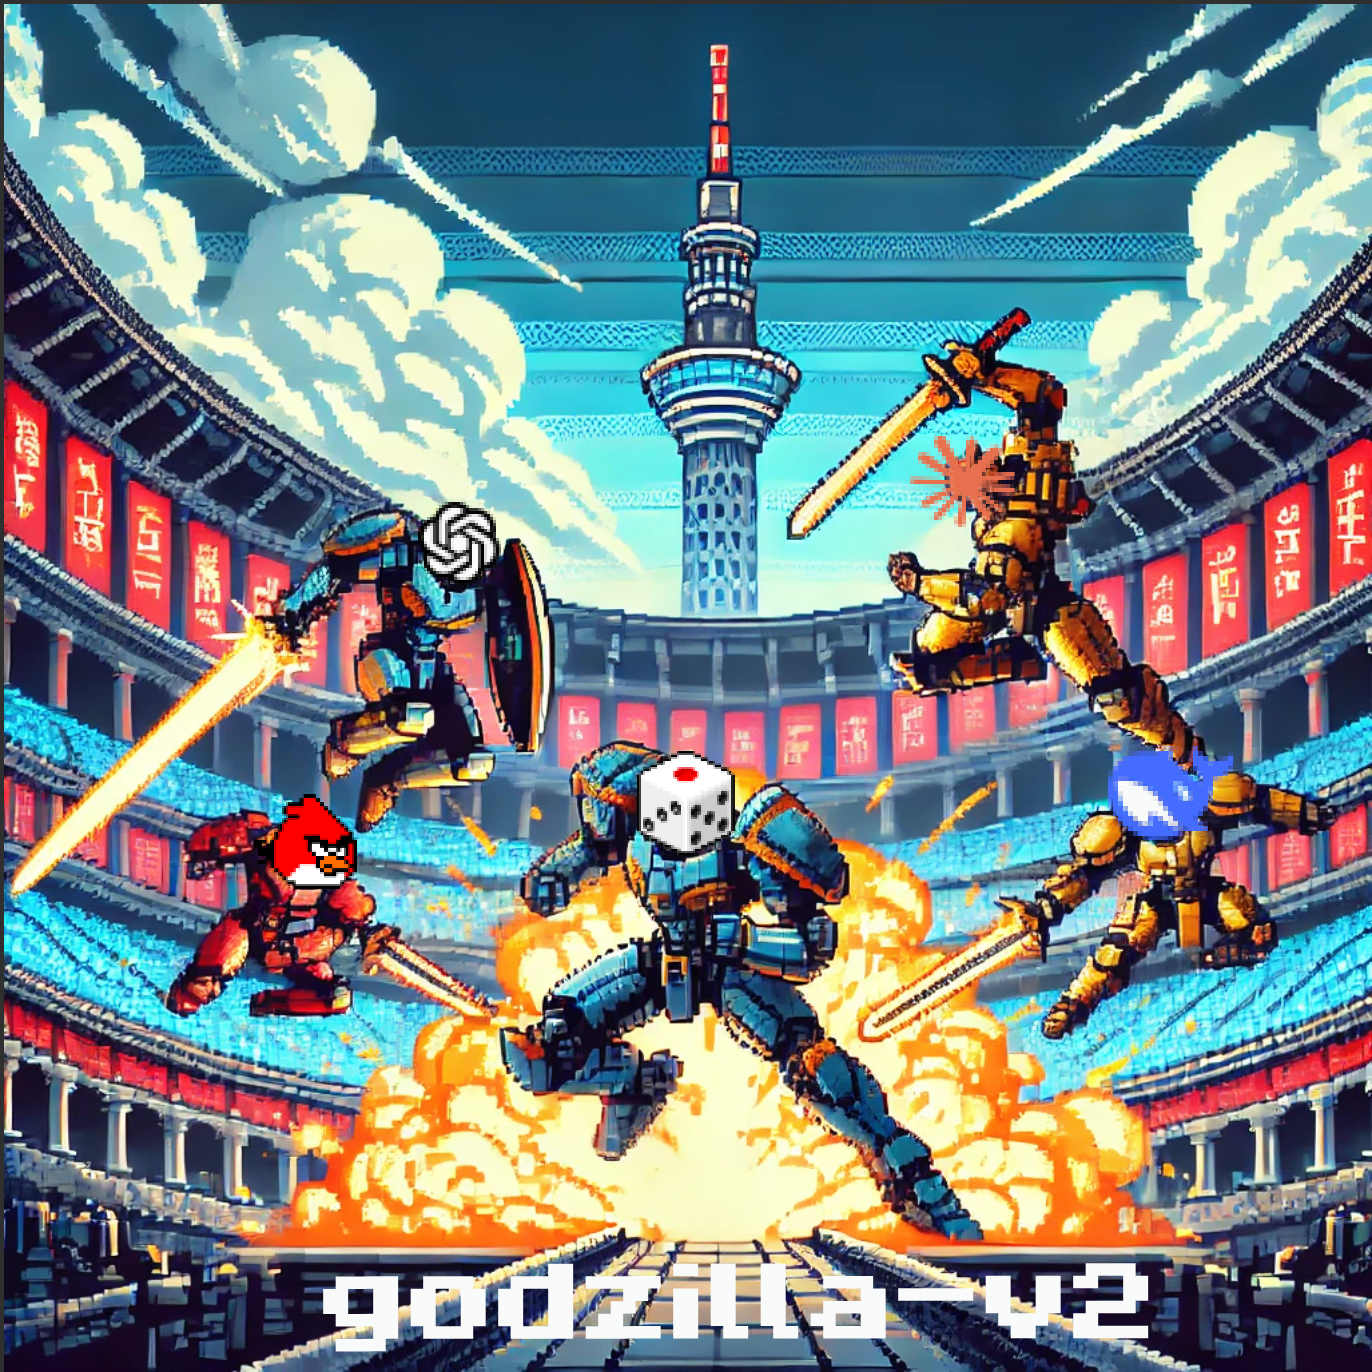
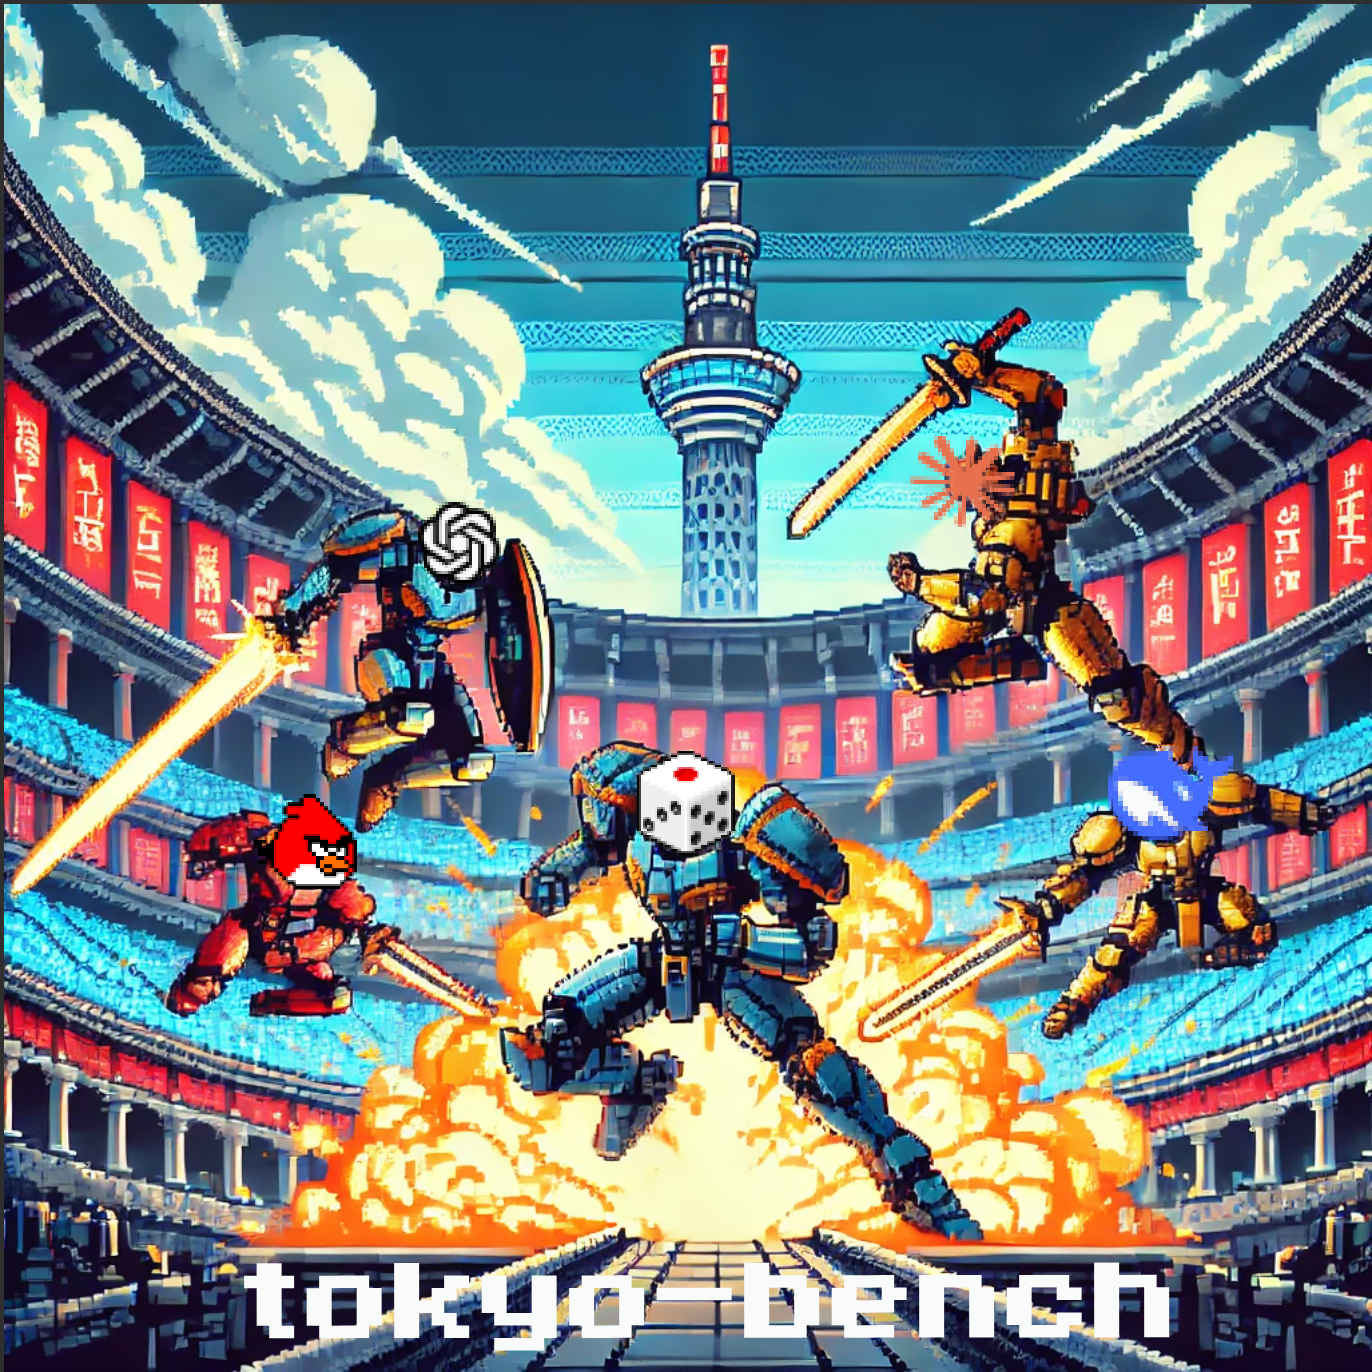
rename to tokyo-bench

Changed region(s): [[0.1837, 0.9184, 0.8571, 1.0]]

diff --git a/report.py b/report.py
@@ -79,7 +79,7 @@ class GameLogger:
             <!DOCTYPE html>
             <html>
             <head>
-                <title>godzilla-v2 game report</title>
+                <title>tokyo-bench report</title>
                 <style>
                     body {{ font-family: sans-serif; }}
                     .summary {{ margin-bottom: 20px; padding: 15px; border: 1px solid #ddd; border-radius: 5px; }}
@@ -109,7 +109,7 @@ class GameLogger:
                 </style>
             </head>
             <body>
-                <h1>godzilla-v2 game report</h1>
+                <h1>tokyo-bench game report</h1>
 
                 <div class="summary">
                     <h2>Game Summary</h2>

diff --git a/llm/helpers.py b/llm/helpers.py
@@ -9,7 +9,7 @@ class ACTIONS(Enum):
 with open("./llm/rules.md", "r") as f:
     RULES = f.read()
 
-SYSTEM_PROMPT = f"""You are an expert player of the game godzilla-v2. Your goal is to play the best possible action given the circumstances, to eventually win the game.
+SYSTEM_PROMPT = f"""You are an expert player of the game tokyo-bench. Your goal is to play the best possible action given the circumstances, to eventually win the game.
 <GameRules>
 {RULES}
 </GameRules>

diff --git a/README.md b/README.md
@@ -1,6 +1,6 @@
-# godzilla-v2
+# tokyo-bench
 
-godzilla-v2 is a super simplified king of tokyo game (derived heavily from [godzilla](https://github.com/haraschax/godzilla/)). The goal of this game is to create a benchmark for reasoning LLMs, and see how they fare against classic game playing techniques.
+tokyo-bench is a super simplified [king of tokyo game](https://en.wikipedia.org/wiki/King_of_Tokyo) (derived heavily from [godzilla](https://github.com/haraschax/godzilla/) repo). The goal of this game is to create a benchmark for reasoning LLMs, and see how they fare against classic game playing techniques.
 
 #### Simplifications from King of Tokyo
 - There are no energy cubes

diff --git a/llm/rules.md b/llm/rules.md
@@ -1,4 +1,4 @@
-# godzilla-v2
+# tokyo-bench
 A simplified variant of the King of Tokyo game
 
 ### Goal
